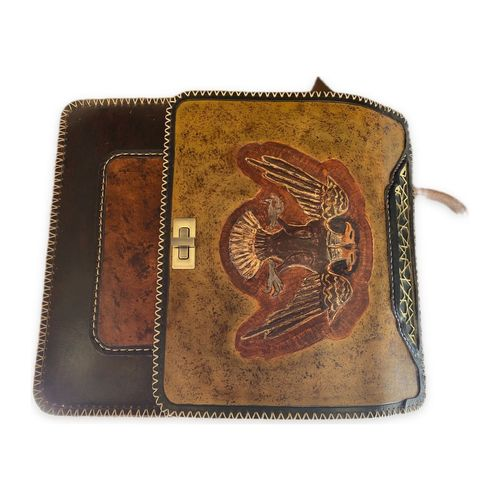
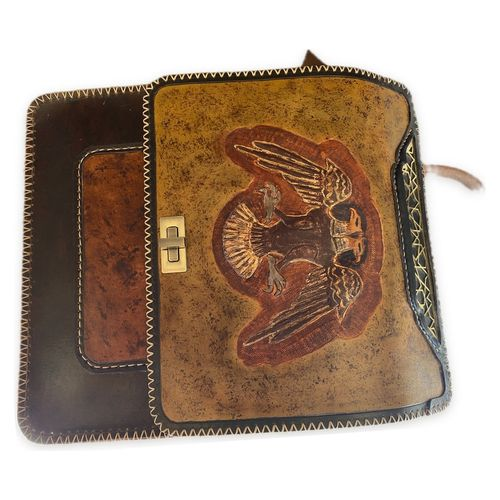
leather: fix upside-down indigo tree; straighten eagle satchel
- Tree-of-Life Indigo: the emboss was upside down (tree growing down).
  Rotated 180deg so the tree grows up (clasp at bottom of flap);
  reduced to the single clean upright shot.
- Double-Eagle Satchel: leveled the tilted main image (+4deg).

diff --git a/leather/index.html b/leather/index.html
@@ -301,10 +301,6 @@
     <div class="media">
       <span class="badge" data-en="One of one" data-tr="Tek parça" data-de="Unikat">One of one</span>
       <img class="main" id="m-indigo" src="indigo-2.jpg" alt="Tree-of-Life Crossbody — Indigo" loading="lazy" decoding="async" />
-      <div class="thumbs" role="group" aria-label="Tree-of-Life Crossbody — Indigo views">
-        <button type="button" class="thumb active" data-target="m-indigo" data-full="indigo-2.jpg" aria-label="View 1"><img src="indigo-2-t.jpg" alt="" loading="lazy" /></button>
-        <button type="button" class="thumb" data-target="m-indigo" data-full="indigo-1.jpg" aria-label="View 2"><img src="indigo-1-t.jpg" alt="" loading="lazy" /></button>
-      </div>
     </div>
     <div class="body">
       <div class="cat" data-en="Crossbody" data-tr="Askılı Çanta" data-de="Umhängetasche">Crossbody</div>
